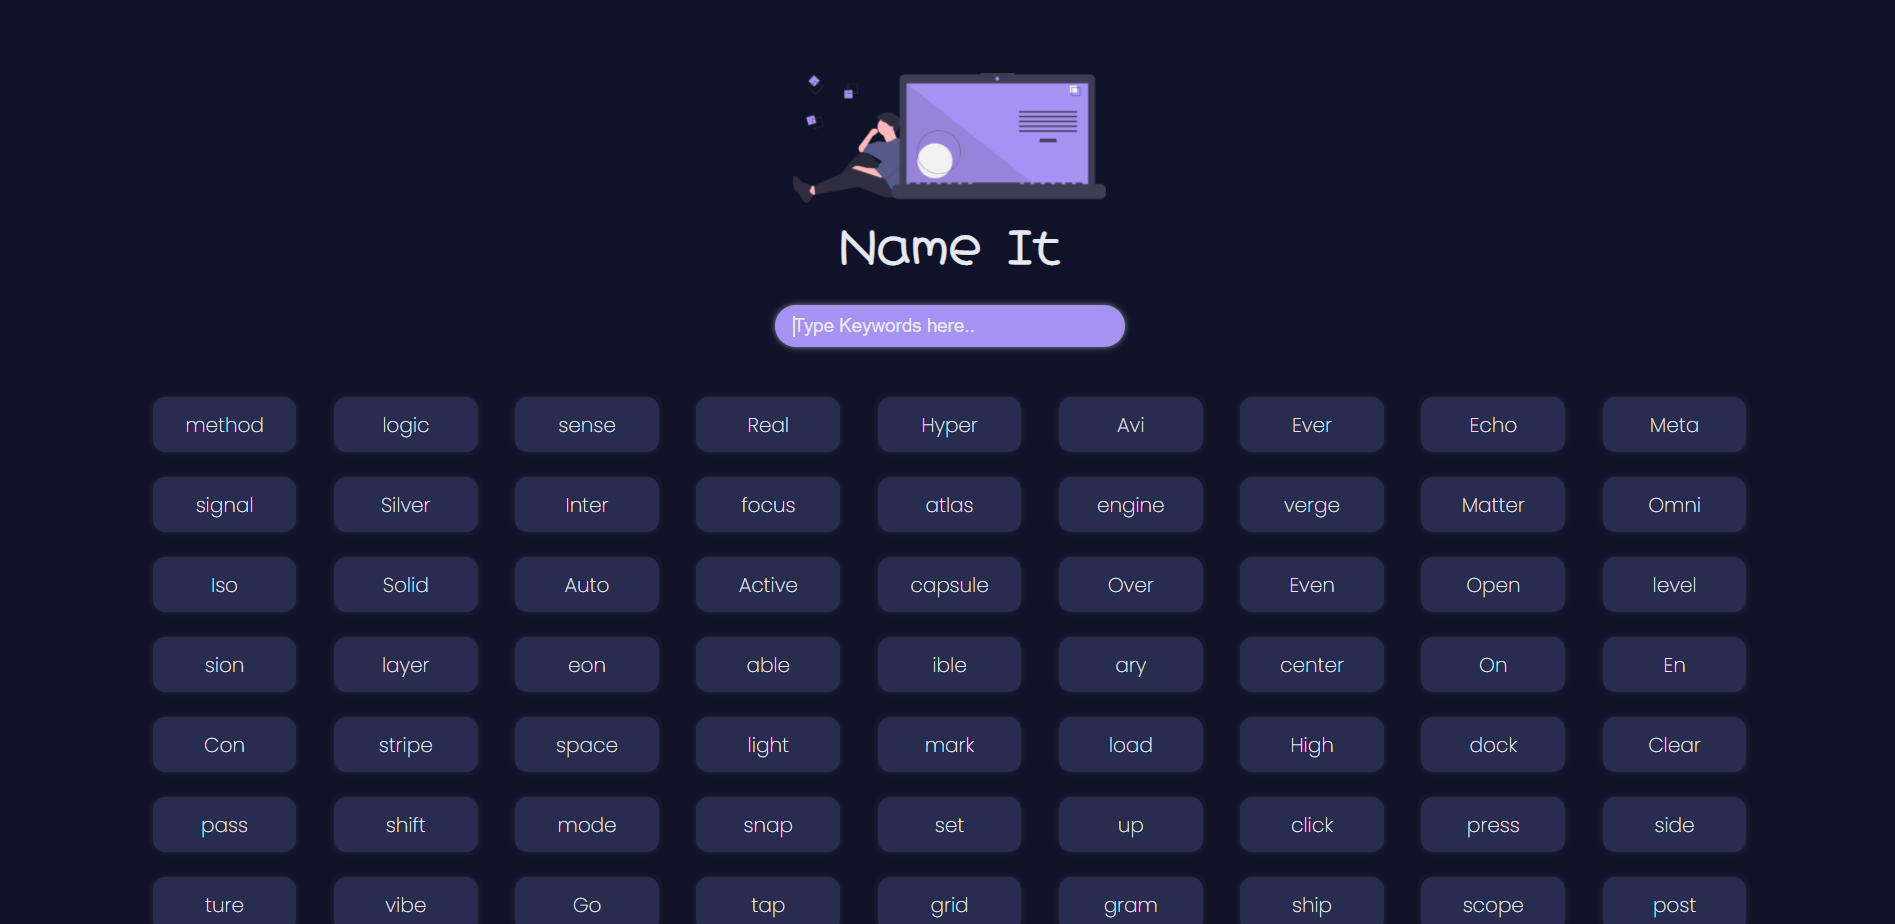
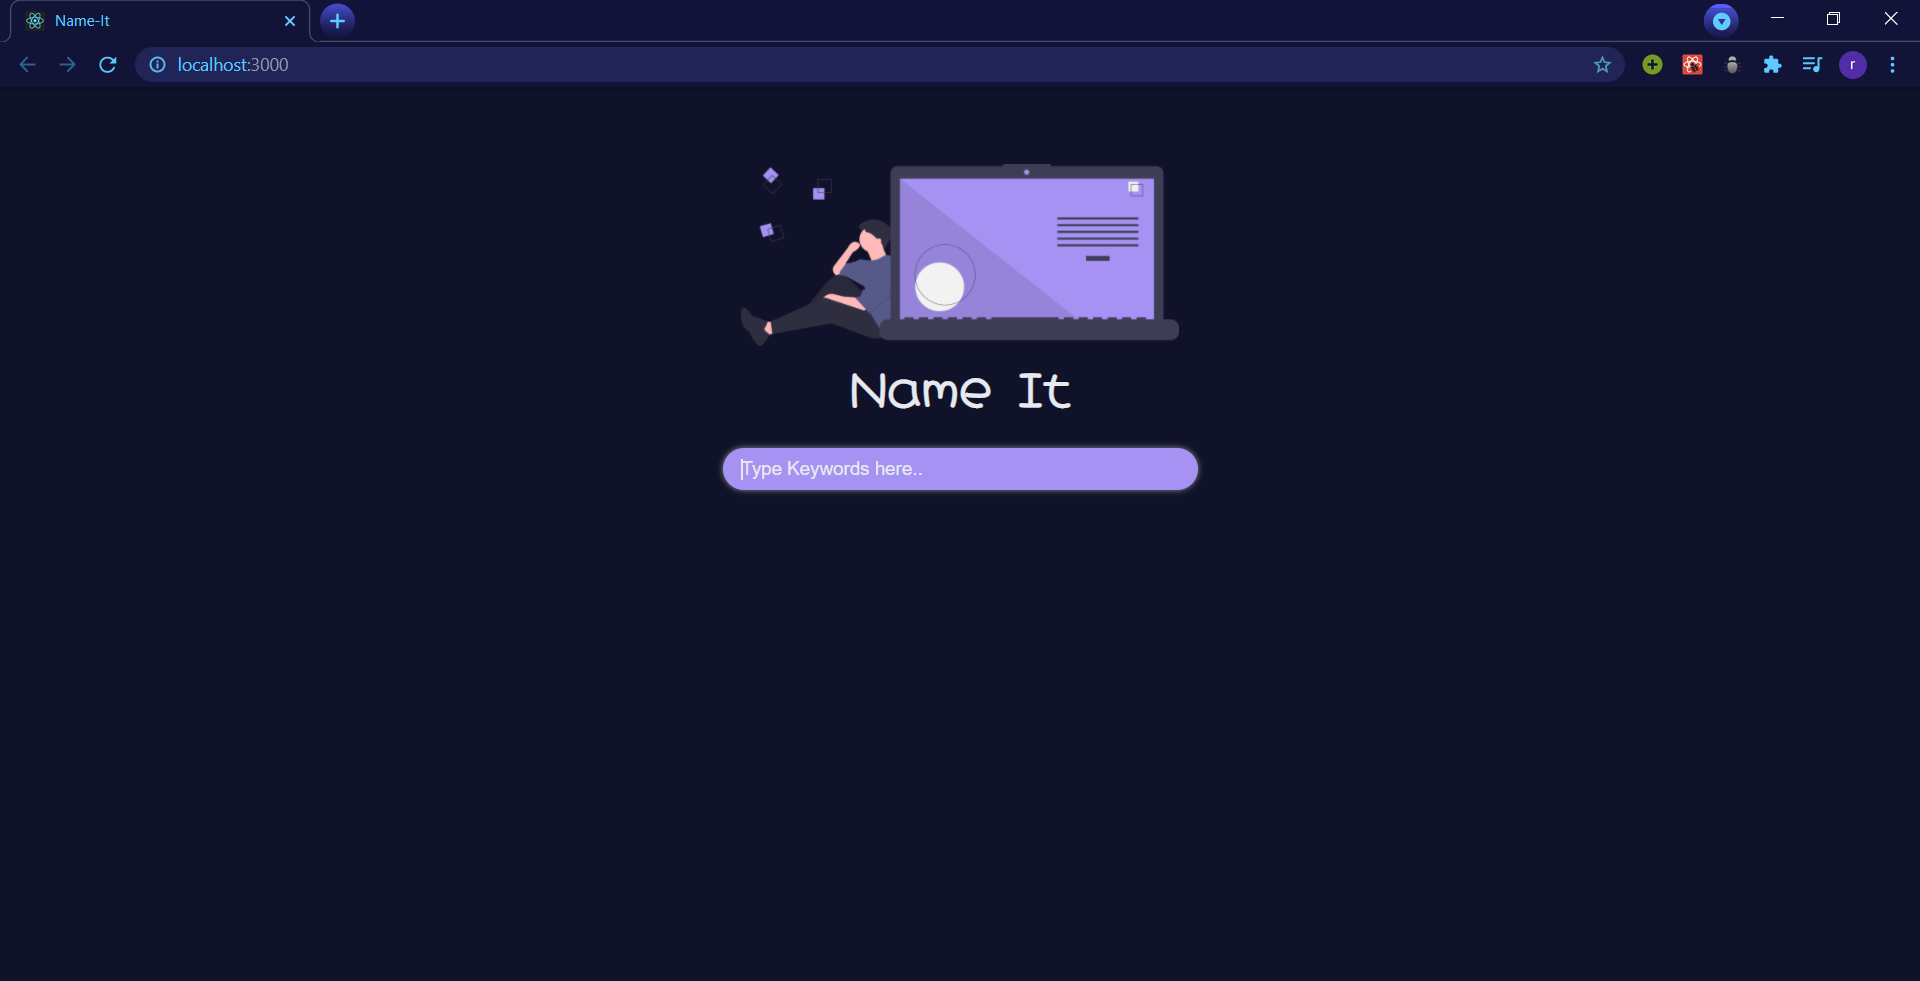
Readme updated 3

diff --git a/src/components/NameCard/NameCard.jsx b/src/components/NameCard/NameCard.jsx
@@ -5,7 +5,12 @@ const nameCheapUrl =
 
 const NameCard = ({ suggestedName }) => {
     return (
-        <a className="card-link" href={`${nameCheapUrl}${suggestedName}`}>
+        <a
+            target="_blank"
+            rel="noreferrer"
+            className="card-link"
+            href={`${nameCheapUrl}${suggestedName}`}
+        >
             <div className="result-name-card">
                 <p className="result-name">{suggestedName}</p>
             </div>

diff --git a/src/components/App/App.jsx b/src/components/App/App.jsx
@@ -16,7 +16,7 @@ class App extends React.Component {
     handleInputChange = (inputText) => {
         this.setState({
             isExpanded: !inputText,
-            suggestedNames: name(inputText),
+            suggestedNames: inputText ? name(inputText) : [],
         })
     }
 

diff --git a/src/components/Header/Header.css b/src/components/Header/Header.css
@@ -10,13 +10,13 @@
 }
 
 .head-image-expanded {
-    min-width: 230px;
-    max-width: 250px;
+    min-width: 330px;
+    max-width: 350px;
 }
 
 .head-image-contracted {
-    min-width: 40px;
-    max-width: 60px;
+    min-width: 100px;
+    max-width: 120px;
 }
 
 .head-text {

diff --git a/src/components/SearchBox/SearchBox.css b/src/components/SearchBox/SearchBox.css
@@ -7,7 +7,7 @@
 .search-input {
     padding: 8px 15px;
     font-size: 15px;
-    width: 250px;
+    width: 350px;
     border-width: 0;
     background-color: #a592f2;
     color: #e7e9f0;

diff --git a/README.md b/README.md
@@ -2,7 +2,9 @@
 
 ## This is a simple ReactJS project.
 
-![Alt text](./public/nameitimg.png 'a title')
+![Alt text](./public/nameitimg.png 'Preview 1')
+
+![Alt text](./public/nameitem2.png 'Preview 2')
 
 ---
 
